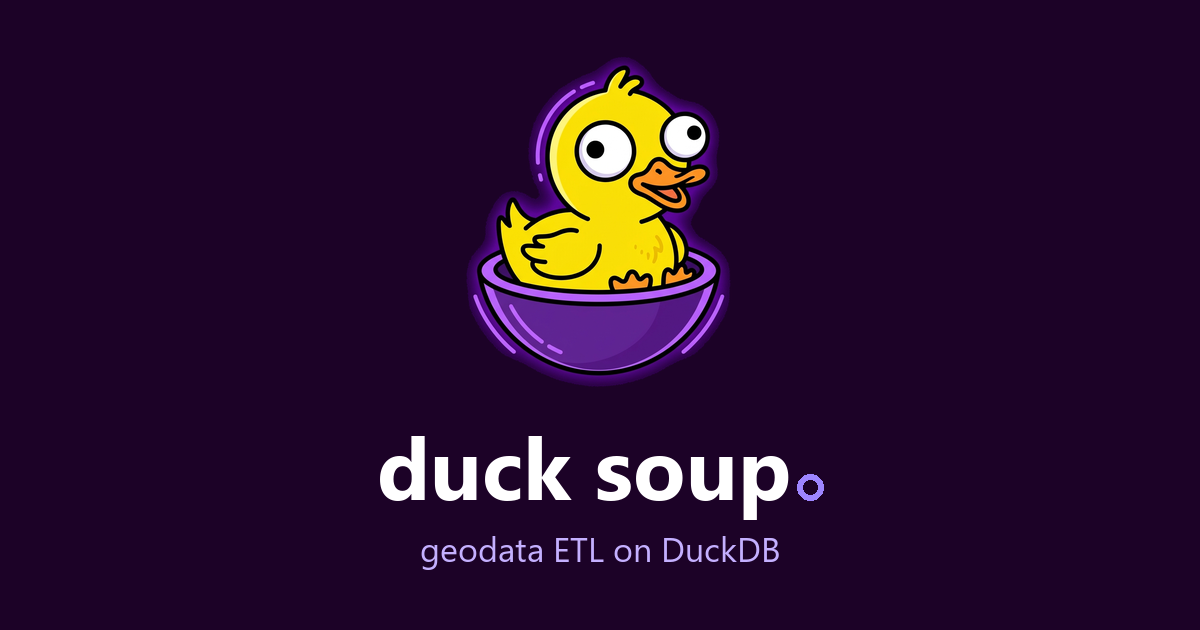
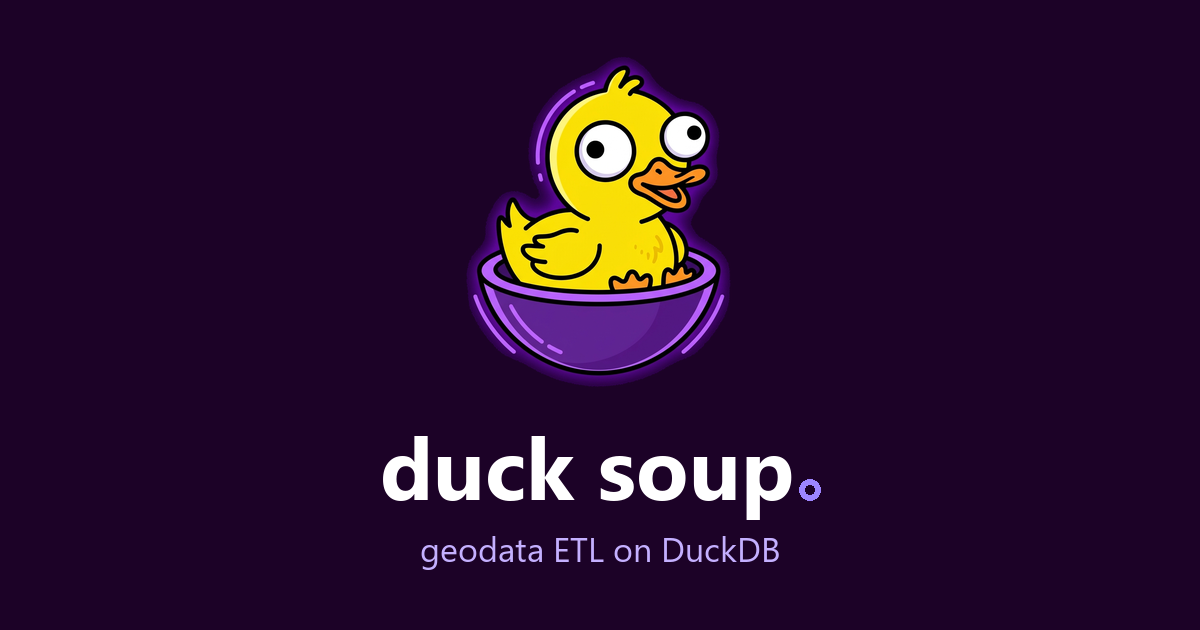
Docs: one size for the wordmark ring everywhere
The docs header, the docs home title and the social card use the editor's proportions
(.24em ring, .07em gap, .065em stroke), instead of .26em and .3em. Social card regenerated.

Changed region(s): [[0.3083, 0.6937, 0.7092, 0.8143]]

diff --git a/docs/stylesheets/extra.css b/docs/stylesheets/extra.css
@@ -48,8 +48,8 @@
   content: "";
   /* Sized like the editor's (.brand .dot in styles.css); the header's text is small, so keep
      the stroke from thinning to a hairline. */
-  width: 0.26em;
-  height: 0.26em;
+  width: 0.24em;
+  height: 0.24em;
   margin-left: 0.07em;
   box-sizing: border-box;
   flex-shrink: 0;
@@ -101,11 +101,11 @@
 /* The wordmark's ring, as in the editor's top bar (.brand .dot in styles.css). */
 .ds-hero h1 .ds-dot {
   display: inline-block;
-  width: 0.3em;
-  height: 0.3em;
-  margin-left: 0.08em;
+  width: 0.24em;
+  height: 0.24em;
+  margin-left: 0.07em;
   box-sizing: border-box;
-  border: 0.075em solid var(--ds-accent);
+  border: max(1.5px, 0.065em) solid var(--ds-accent);
   border-radius: 50%;
   vertical-align: baseline;
 }

diff --git a/scripts/build_social_card.py b/scripts/build_social_card.py
@@ -44,7 +44,7 @@ def main() -> None:
     tag_font = _font(["SpaceGrotesk-Regular.ttf", "segoeui.ttf", "DejaVuSans.ttf"], 34)
     # The editor's wordmark: the name plus a ring (a 。) in the accent colour, centred together,
     # sized like the editor's (.brand .dot in styles.css) and sitting on the baseline.
-    ring, gap, stroke = round(0.3 * 86), round(0.08 * 86), round(0.075 * 86)
+    ring, gap, stroke = round(0.24 * 86), round(0.07 * 86), round(0.065 * 86)
     title_w = draw.textlength(TITLE, font=title_font) + gap + ring
     x = (W - title_w) / 2
     baseline = 500
